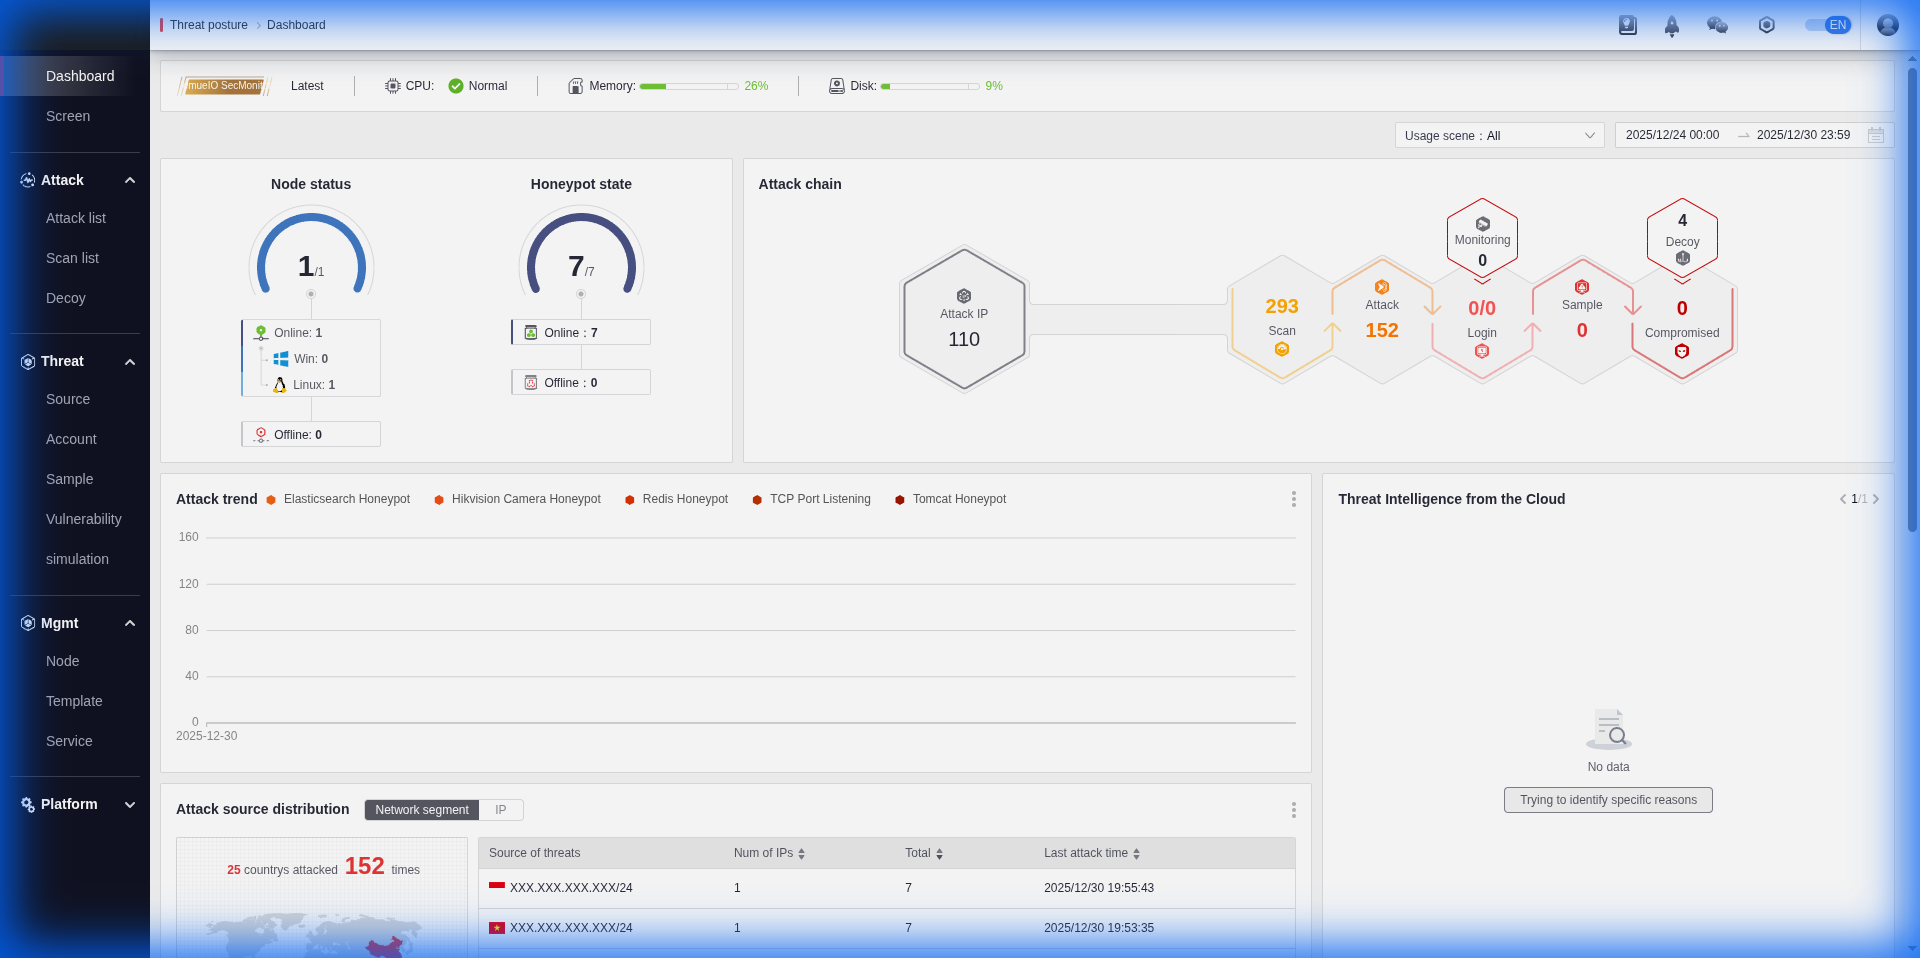
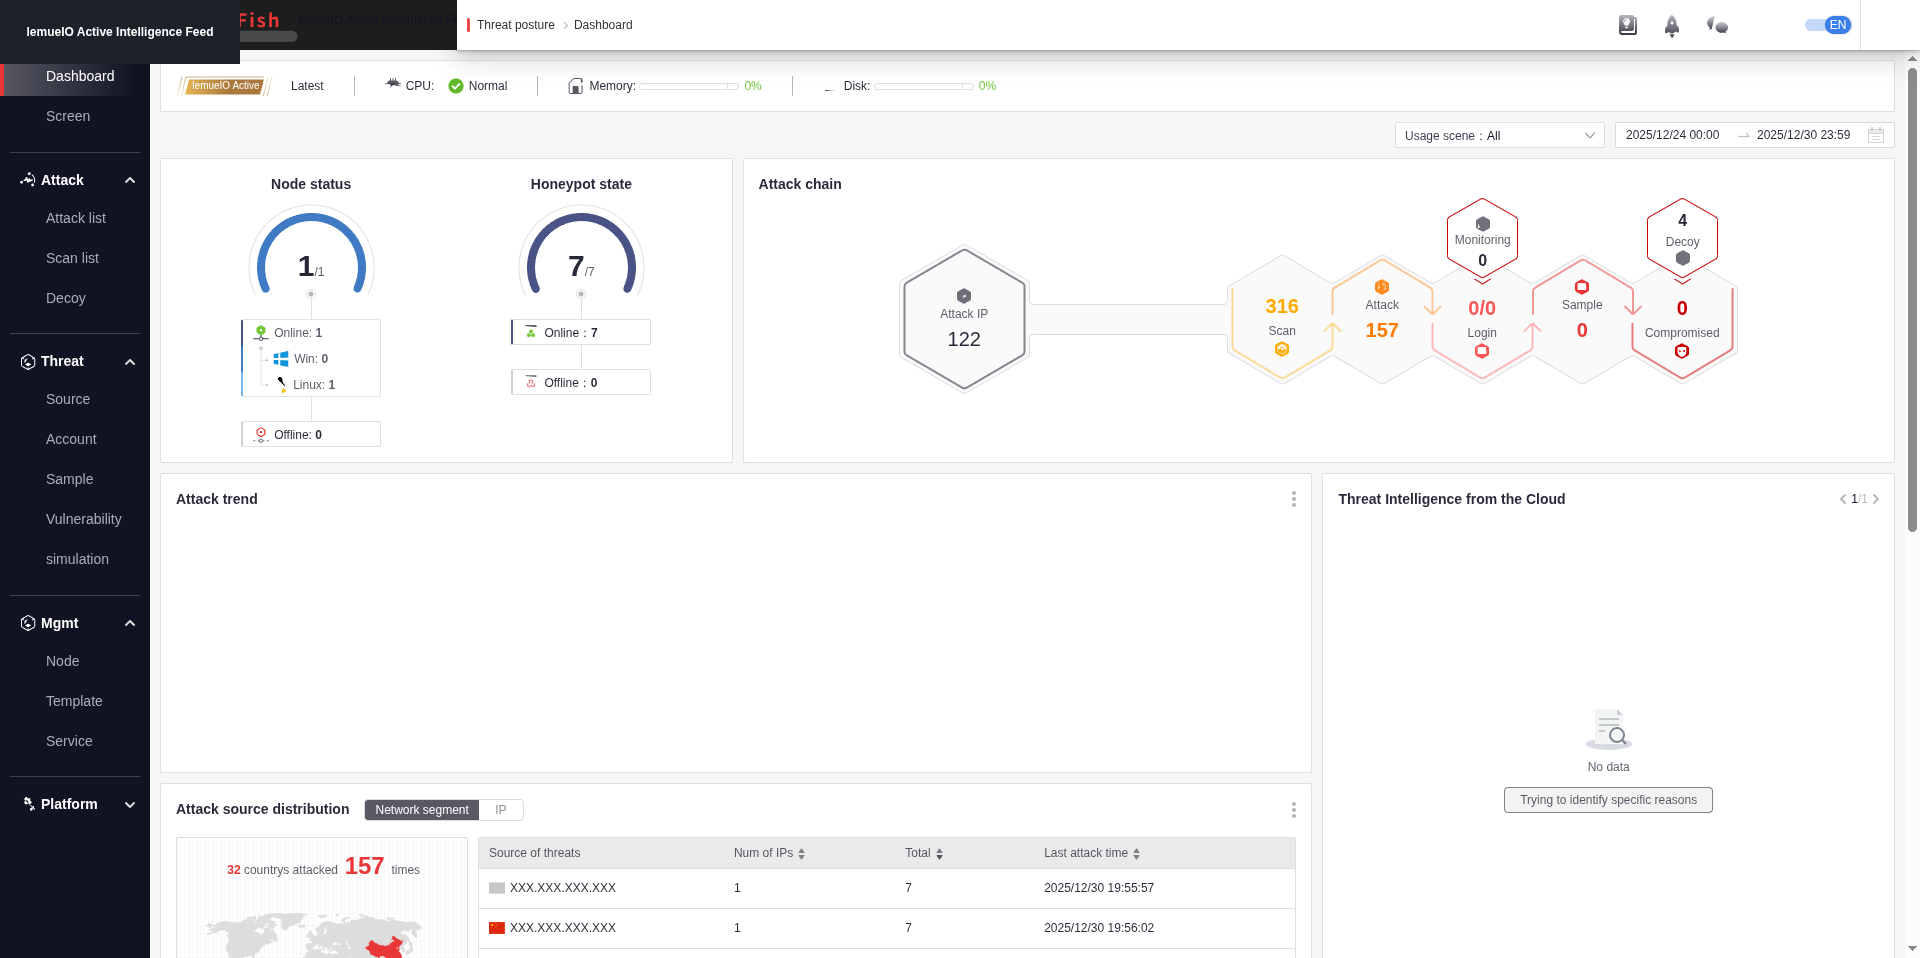
feat: release 3.0.0 with localization, rebranding, and stabilization

diff --git a/feed/index.html b/feed/index.html
@@ -1,11 +1,31 @@
+
 <!DOCTYPE html>
 <html>
 <head>
-    <title>Active Defense Feed</title>
-    <style>body { font-family: monospace; padding: 20px; }</style>
+    <title>lemueIO Active Intelligence Feed</title>
+    <style>
+        body { font-family: monospace; padding: 20px; background: #f0f0f0; }
+        h1 { color: #333; }
+        .list { background: white; padding: 20px; border-radius: 5px; box-shadow: 0 2px 5px rgba(0,0,0,0.1); }
+        .item { padding: 5px 0; border-bottom: 1px solid #eee; }
+        a { text-decoration: none; color: #0066cc; }
+        a:hover { text-decoration: underline; }
+        .meta { font-size: 0.8em; color: #666; margin-left: 10px; }
+    </style>
 </head>
 <body>
-    <h1>Active Defense Feed</h1>
-    <p>Waiting for scan data...</p>
+    <h1>lemueIO Active Intelligence Feed</h1>
+    <div class="list">
+        <h3>Resources</h3>
+        <div class="item">
+            <a href="feed/banned_ips.txt" target="_blank">banned_ips.txt</a>
+            <span class="meta">List of unique attacker IPs</span>
+        </div>
+    </div>
+    <br>
+    <div class="list">
+        <h3>Scan Reports</h3>
+
+    </div>
 </body>
 </html>

diff --git a/sidecar/monitor.py b/sidecar/monitor.py
@@ -147,7 +147,7 @@ def update_index():
 <!DOCTYPE html>
 <html>
 <head>
-    <title>lemueIO SecMonitor</title>
+    <title>lemueIO Active Intelligence Feed</title>
     <style>
         body { font-family: monospace; padding: 20px; background: #f0f0f0; }
         h1 { color: #333; }
@@ -159,7 +159,7 @@ def update_index():
     </style>
 </head>
 <body>
-    <h1>lemueIO SecMonitor</h1>
+    <h1>lemueIO Active Intelligence Feed</h1>
     <div class="list">
         <h3>Resources</h3>
         <div class="item">

diff --git a/README_UA.md b/README_UA.md
@@ -1,0 +1,144 @@
+<div align="center">
+
+# 🍯 Honey-Scan
+### Екосистема Активного Захисту
+
+![Version](https://img.shields.io/badge/version-3.0.0-blue.svg)
+![Powered By](https://img.shields.io/badge/Powered%20By-HFish-orange)
+
+*Перетворіть ваш ханіпот на систему активного захисту, що дає відсіч.*
+
+[🇬🇧 English](README.md) | [🇩🇪 Deutsch](README_DE.md) | [🇺🇦 Українська](README_UA.md)
+
+</div>
+
+> [!WARNING]
+> **⚠ ВІДМОВА ВІД ВІДПОВІДАЛЬНОСТІ: ІНСТРУМЕНТ ВИСОКОГО РИЗИКУ ⚠**
+>
+> Цей інструмент виконує **АКТИВНУ РОЗВІДКУ** (сканування Nmap) проти IP-адрес, які підключаються до вашого ханіпоту.
+> *   **Юридичний ризик**: Сканування систем без дозволу може бути незаконним у вашій юрисдикції.
+> *   **Відплата**: Агресивне сканування зловмисників може спровокувати сильніші атаки (DDoS) або розкрити вашу інфраструктуру.
+> *   **Використання**: Використовуйте суворо в освітніх цілях або в контрольованих середовищах, де ви берете на себе повну відповідальність. **Автори не несуть відповідальності за будь-яке зловживання або юридичні наслідки.**
+
+---
+
+## 📖 Огляд
+
+**Honey-Scan** перетворює пасивний ханіпот HFish на **Систему Активного Захисту**. Замість того, щоб просто реєструвати атаки, вона реагує (інформативно).
+
+Коли зловмисник торкається вашого ханіпоту, Honey-Scan автоматично:
+1.  **🕵 Виявляє** вторгнення через базу даних HFish.
+2.  **🔍 Сканує** зловмисника негайно за допомогою `nmap`.
+3.  **📢 Публікує** розвідувальні дані в локальний канал (фід).
+4.  **🛡 Блокує** зловмисника на вашій виробничій інфраструктурі (через клієнтські скрипти).
+
+## 🚀 Основні функції
+
+*   **⚡ Реакція в реальному часі**: Python-сайдкар моніторить `hfish.db` і запускає сканування через секунди після атаки.
+*   **📊 Автоматизована розвідка**: Генерує детальні `.txt` звіти для кожної унікальної IP-адреси зловмисника.
+*   **🚫 Мережевий щит**: Надає динамічний список `banned_ips.txt`, який ваші інші сервери можуть використовувати для превентивного блокування загроз.
+*   **🖥 Панель керування**: Простий веб-інтерфейс для перегляду звітів сканування та списків бану.
+*   **🖼 Візуалізація**:
+    *   **Live Threat Monitor** (Фід):
+        ![Feed Dashboard](docs/img/feed_dashboard_v2.png)
+    *   **Карта атак HFish** (Внутрішня):
+        ![Attack Map](docs/img/hfish_screen_v2.png)
+    *   **Статистика HFish** (Внутрішня):
+        ![Statistics](docs/img/hfish_dashboard_v2.png)
+    *   **Інтерфейс входу**:
+        ![Login](docs/img/login_v2.png)
+
+## 🏗 Архітектура
+
+Система працює як набір Docker-контейнерів як розширення для основного бінарного файлу HFish:
+
+| Сервіс | Тип | Опис |
+| :--- | :--- | :--- |
+| **HFish** | 🍯 Core | Базова платформа ханіпоту (Управління та Ноди). (Стандартні порти `80`/`443`) |
+| **Sidecar** | 🐍 Python | Мозок. Стежить за БД, оркеструє Nmap, оновлює фіди. |
+| **Feed** | 🌐 Nginx | Обслуговує звіти та списки бану на порту `8888`. |
+
+```mermaid
+graph LR
+    A[👹 Зловмисник] -- 1. Hacks --> B(🍯 HFish)
+    B -- 2. Logs --> C[(💽 DB)]
+    D[🐍 Sidecar] -- 3. Стежить --> C
+    D -- 4. Nmap Scan --> A
+    D -- 5. Оновлює --> E[📂 Feed]
+    F[💻 Dashboard] -- Читає --> E
+    G[🛡 Prod Server] -- 6. Фіди & Блокує --> E
+```
+
+## 🛠 Встановлення
+
+### 📦 Налаштування бази даних (MariaDB)
+1.  Скопіюйте приклад файлу оточення:
+    ```bash
+    cp .env.example .env
+    ```
+2.  **Відредагуйте `.env`** і встановіть надійні паролі для `DB_PASSWORD` та `MYSQL_ROOT_PASSWORD`.
+3.  Використовуйте ці значення при налаштуванні майстра HFish.
+
+| Налаштування | Значення |
+| :--- | :--- |
+| **Тип бази даних** | **MySQL / MariaDB** |
+| **Адреса** | `mariadb` |
+| **Порт** | `3306` |
+| **Ім'я** | `hfish` |
+| **Користувач** | `hfish` |
+| **Пароль** | *(Значення, яке ви встановили в `.env`)* |
+
+### 0. Автоматичне налаштування хоста (Debian 13)
+Ми надаємо скрипт налаштування, який:
+1.  Встановлює **Docker** & **Git**.
+2.  Посилює безпеку SSH, переміщуючи його на порт **2222** (щоб звільнити порт 22 для ханіпоту).
+3.  Перезавантажує систему.
+
+```bash
+# Завантажити та запустити як root
+wget https://raw.githubusercontent.com/derlemue/honey-scan/main/scripts/setup_host.sh
+chmod +x setup_host.sh
+sudo ./setup_host.sh
+```
+
+> [!CAUTION]
+> **SSH ЗАСТЕРЕЖЕННЯ**: Після завершення скрипту ваш порт SSH зміниться на **2222**.
+> Переконайтеся, що ви підключаєтеся за допомогою `ssh user@host -p 2222` і дозвольте цей порт у вашому брандмауері!
+
+### 1. Запуск сервера
+Клонуйте репозиторій та запустіть стек:
+
+```bash
+git clone https://github.com/derlemue/honey-scan.git
+cd honey-scan
+docker compose up -d --build
+```
+
+### 2. Доступ до панелей керування
+*   **lemueIO Active Intelligence Feed**: `http://localhost:8888`
+*   **HFish Admin**: `https://localhost:4433` (За замовчуванням: `admin` / `HFish2021`)
+
+### 3. Розгортання клієнтського щита
+Захистіть ваші *інші* сервери, автоматично блокуючи IP, виявлені цим ханіпотом.
+
+Запустіть це на ваших виробничих серверах:
+```bash
+# Завантажити скрипт (Вкажіть IP вашого сервера Honey-Scan)
+wget http://<HONEY-SCAN-IP>:8888/scripts/client_banned_ips.sh
+
+# Зробити виконуваним
+chmod +x client_banned_ips.sh
+
+# Запустити (Додайте в Crontab для авто-оновлення!)
+./client_banned_ips.sh
+```
+
+## 📜 Про Core HFish
+
+Цей проект побудований на [HFish](https://hfish.net), високопродуктивному ханіпоті спільноти.
+*   **Базові функції**: Підтримка SSH, Redis, Mysql веб-ханіпотів та інше.
+*   **Візуалізація**: Красиві карти атак та статистика в рідній адмін-панелі HFish.
+*   **Примітка**: Цей репозиторій зосереджений на розширенні *Active Defense*. Для документації Core HFish, будь ласка, зверніться до [офіційної документації](https://hfish.net/#/docs).
+
+---
+*Підтримується спільнотою Honey-Scan.*

diff --git a/README_DE.md b/README_DE.md
@@ -1,0 +1,144 @@
+<div align="center">
+
+# 🍯 Honey-Scan
+### Aktives Verteidigungs-Ökosystem
+
+![Version](https://img.shields.io/badge/version-3.0.0-blue.svg)
+![Powered By](https://img.shields.io/badge/Powered%20By-HFish-orange)
+
+*Verwandle deinen Honeypot in ein aktives Verteidigungssystem, das zurück beißt.*
+
+[🇬🇧 English](README.md) | [🇩🇪 Deutsch](README_DE.md) | [🇺🇦 Українська](README_UA.md)
+
+</div>
+
+> [!WARNING]
+> **⚠ HAFTUNGSAUSSCHLUSS: HOCHRISIKO-TOOL ⚠**
+>
+> Dieses Tool führt **AKTIVE AUFKLÄRUNG** (Nmap-Scans) gegen IP-Adressen durch, die sich mit deinem Honeypot verbinden.
+> *   **Rechtliches Risiko**: Das Scannen von Systemen ohne Erlaubnis kann in deiner Gerichtsbarkeit illegal sein.
+> *   **Vergeltung**: Aggressives Scannen von Angreifern kann stärkere Angriffe (DDoS) provozieren oder deine Infrastruktur exponieren.
+> *   **Nutzung**: Nutzung streng für Bildungszwecke oder in kontrollierten Umgebungen, in denen du die volle Haftung übernimmst. **Die Autoren sind nicht verantwortlich für Missbrauch oder rechtliche Konsequenzen.**
+
+---
+
+## 📖 Übersicht
+
+**Honey-Scan** transformiert einen passiven HFish-Honeypot in ein **Aktives Verteidigungssystem**. Anstatt Angriffe nur zu protokollieren, reagiert es (informativ).
+
+Wenn ein Angreifer deinen Honeypot berührt, wird Honey-Scan automatisch:
+1.  **🕵 Erkennen**: Die Intrusion über die HFish-Datenbank erkennen.
+2.  **🔍 Scannen**: Den Angreifer sofort mit `nmap` scannen.
+3.  **📢 Veröffentlichen**: Die Informationen in einem lokalen Feed bereitstellen.
+4.  **🛡 Blockieren**: Den Angreifer auf deiner Produktionsinfrastruktur blockieren (über Client-Skripte).
+
+## 🚀 Hauptfunktionen
+
+*   **⚡ Echtzeit-Reaktion**: Python-Sidecar überwacht `hfish.db` und löst Sekunden nach einem Angriff Scans aus.
+*   **📊 Automatisierte Intel**: Generiert detaillierte `.txt`-Berichte für jede eindeutige Angreifer-IP.
+*   **🚫 Netzwerk-Schutzschild**: Stellt eine dynamische `banned_ips.txt`-Liste bereit, die andere Server nutzen können, um Bedrohungen präventiv zu blockieren.
+*   **🖥 Dashboard**: Einfache Weboberfläche zum Durchsuchen von Scan-Berichten und Bannlisten.
+*   **🖼 Visualisierungen**:
+    *   **Live Threat Monitor** (Der "Feed"):
+        ![Feed Dashboard](docs/img/feed_dashboard_v2.png)
+    *   **HFish Angriffs-Karte** (Intern):
+        ![Attack Map](docs/img/hfish_screen_v2.png)
+    *   **HFish Statistiken** (Intern):
+        ![Statistics](docs/img/hfish_dashboard_v2.png)
+    *   **Login Interface**:
+        ![Login](docs/img/login_v2.png)
+
+## 🏗 Architektur
+
+Das System läuft als eine Reihe von Docker-Containern als Erweiterung der Kern-HFish-Binary:
+
+| Dienst | Typ | Beschreibung |
+| :--- | :--- | :--- |
+| **HFish** | 🍯 Core | Die Basis-Honeypot-Plattform (Management & Nodes). (Standard-Ports `80`/`443`) |
+| **Sidecar** | 🐍 Python | Das Gehirn. Überwacht die DB, orchestriert Nmap, aktualisiert Feeds. |
+| **Feed** | 🌐 Nginx | Stellt Berichte und Bannlisten auf Port `8888` bereit. |
+
+```mermaid
+graph LR
+    A[👹 Angreifer] -- 1. Hacks --> B(🍯 HFish)
+    B -- 2. Logs --> C[(💽 DB)]
+    D[🐍 Sidecar] -- 3. Überwacht --> C
+    D -- 4. Nmap Scan --> A
+    D -- 5. Aktualisiert --> E[📂 Feed]
+    F[💻 Dashboard] -- Liest --> E
+    G[🛡 Prod Server] -- 6. Feeds & Blockiert --> E
+```
+
+## 🛠 Installation
+
+### 📦 Datenbank-Setup (MariaDB)
+1.  Kopiere die Beispiel-Environment-Datei:
+    ```bash
+    cp .env.example .env
+    ```
+2.  **Bearbeite `.env`** und setze sichere Passwörter für `DB_PASSWORD` und `MYSQL_ROOT_PASSWORD`.
+3.  Nutze diese Werte beim Konfigurieren des HFish-Assistenten.
+
+| Einstellung | Wert |
+| :--- | :--- |
+| **Datenbank Typ** | **MySQL / MariaDB** |
+| **Adresse** | `mariadb` |
+| **Port** | `3306` |
+| **Name** | `hfish` |
+| **Benutzername** | `hfish` |
+| **Passwort** | *(Der Wert aus `.env`)* |
+
+### 0. Automatisches Host-Setup (Debian 13)
+Wir stellen ein Setup-Skript bereit, das:
+1.  **Docker** & **Git** installiert.
+2.  SSH härtet, indem es auf Port **2222** verschoben wird (um Port 22 für den Honeypot freizugeben).
+3.  Das System neu startet.
+
+```bash
+# Herunterladen und als root ausführen
+wget https://raw.githubusercontent.com/derlemue/honey-scan/main/scripts/setup_host.sh
+chmod +x setup_host.sh
+sudo ./setup_host.sh
+```
+
+> [!CAUTION]
+> **SSH WARNUNG**: Nach Abschluss des Skripts ändert sich dein SSH-Port auf **2222**.
+> Stelle sicher, dass du dich mit `ssh user@host -p 2222` verbindest und diesen Port in deiner Firewall erlaubst!
+
+### 1. Server Starten
+Klone das Repo und starte den Stack:
+
+```bash
+git clone https://github.com/derlemue/honey-scan.git
+cd honey-scan
+docker compose up -d --build
+```
+
+### 2. Dashboards erreichen
+*   **lemueIO Active Intelligence Feed**: `http://localhost:8888`
+*   **HFish Admin**: `https://localhost:4433` (Standard: `admin` / `HFish2021`)
+
+### 3. Client Shield deployen
+Schütze deine *anderen* Server, indem du IPs automatisch bannst, die von diesem Honeypot erkannt wurden.
+
+Führe dies auf deinen Produktionsservern aus:
+```bash
+# Skript herunterladen (Auf deine Honey-Scan Server-IP zeigen)
+wget http://<HONEY-SCAN-IP>:8888/scripts/client_banned_ips.sh
+
+# Ausführbar machen
+chmod +x client_banned_ips.sh
+
+# Ausführen (Zu Crontab hinzufügen für Auto-Updates!)
+./client_banned_ips.sh
+```
+
+## 📜 Über Core HFish
+
+Dieses Projekt basiert auf [HFish](https://hfish.net), einem leistungsstarken Community-Honeypot.
+*   **Basis-Funktionen**: Unterstützt SSH, Redis, Mysql Web-Honeypots und mehr.
+*   **Visualisierung**: Schöne Angriffskarten und Statistiken im nativen HFish-Admin-Panel.
+*   **Hinweis**: Dieses Repository konzentriert sich auf die *Active Defense* Erweiterung. Für Core-HFish-Dokumentation siehe die [offiziellen Docs](https://hfish.net/#/docs).
+
+---
+*Gepflegt von der Honey-Scan Community.*

diff --git a/README.md b/README.md
@@ -3,10 +3,12 @@
 # 🍯 Honey-Scan
 ### Active Defense Ecosystem
 
-![Version](https://img.shields.io/badge/version-2.1.1-blue.svg)
+![Version](https://img.shields.io/badge/version-3.0.0-blue.svg)
 ![Powered By](https://img.shields.io/badge/Powered%20By-HFish-orange)
 
 *Turn your honeypot into an active defense system that bites back.*
+
+[🇬🇧 English](README.md) | [🇩🇪 Deutsch](README_DE.md) | [🇺🇦 Українська](README_UA.md)
 
 </div>
 
@@ -113,8 +115,8 @@ docker compose up -d --build
 ```
 
 ### 2. Access Dashboards
-*   **Active Defense Feed**: `http://localhost:8888`
-*   **HFish Admin**: `https://localhost:4433` (Default: `admin` / `HFish2021`)
+*   **lemueIO Active Intelligence Feed**: `http://23.88.40.46:8888/`
+*   **HFish Admin**: `https://23.88.40.46:4433` (Default: `admin` / `HFish2021`)
 
 ### 3. Deploy Client Shield
 Protect your *other* servers by automatically banning IPs detected by this honeypot.

diff --git a/CHANGELOG.md b/CHANGELOG.md
@@ -2,6 +2,16 @@
 
 All notable changes to this project will be documented in this file.
 
+## [3.0.0] - 2025-12-30
+
+### Added
+- 🌍 **Localization**: Added German (`README_DE.md`) and Ukrainian (`README_UA.md`) documentation.
+- 🏳 **Navigation**: Added language flags to README.
+
+### Changed
+- 🚨 **Rebranding**: Renamed feed to "**lemueIO Active Intelligence Feed**" with updated personalization.
+- 🆙 **Major Release**: Version bump to 3.0.0 marking stable multi-language support and system resilience.
+
 ## [2.1.1] - 2025-12-30
 
 ### Changed
